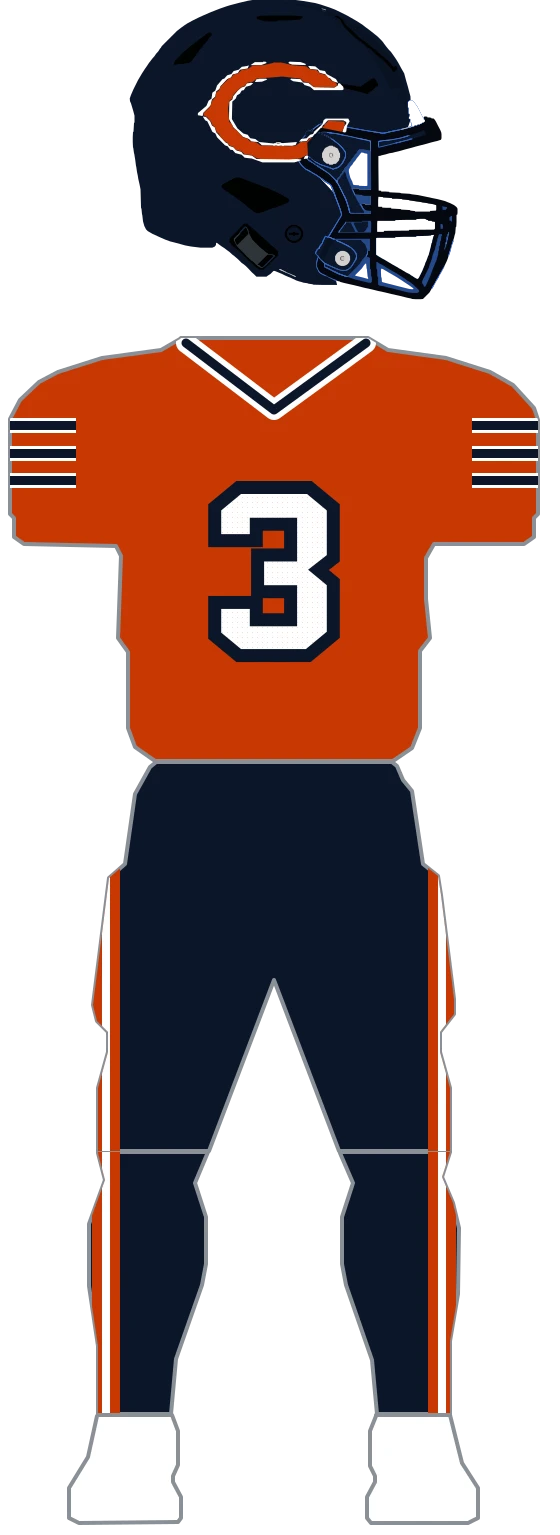
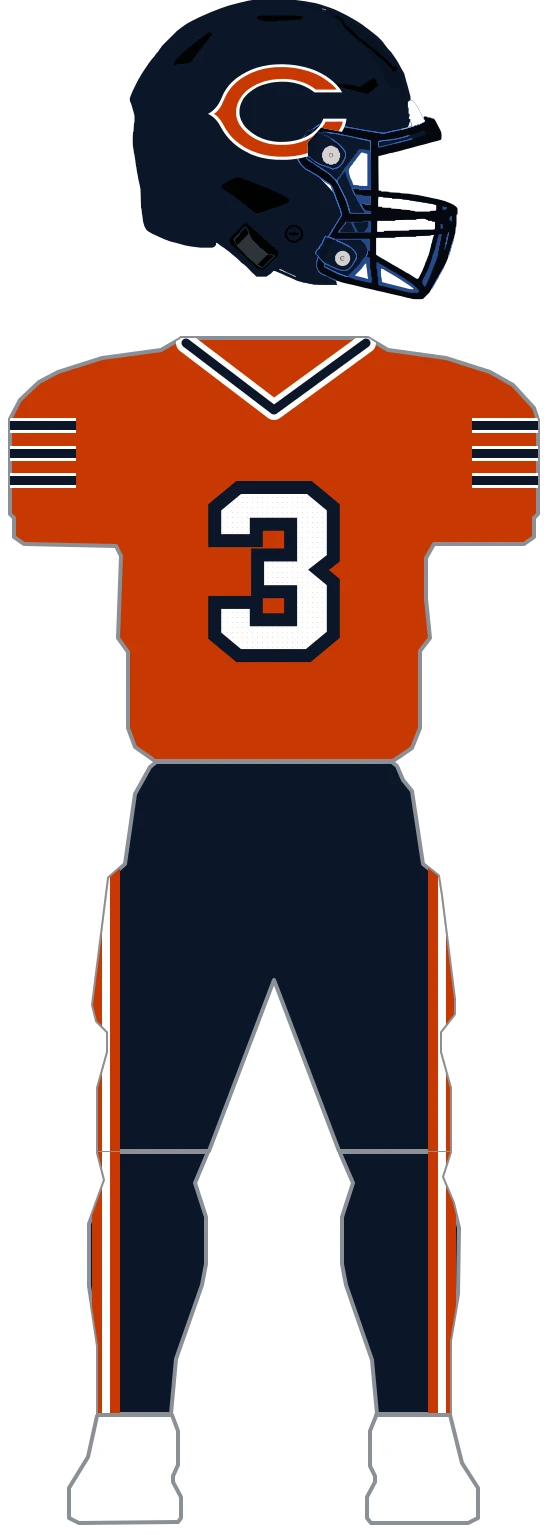
fix(uniforms): complete Bears accuracy pass (#800)

Changed region(s): [[0.3643, 0.0306, 0.6071, 0.1225], [0.6071, 0.0612, 0.6375, 0.0919]]

diff --git a/web/lib/uniforms/teams/bears.ts b/web/lib/uniforms/teams/bears.ts
@@ -10,9 +10,9 @@
 // bold single-stroke letterform survives that where the Seahawks' thin keyline did not. Keyline
 // paints first, the letter over it; both need fill-rule evenodd for their counters.
 export const BEARS_DECAL_KEYLINE_PATH =
-  'M405.4,191.3 L410.4,191.3 L413.0,193.9 L401.9,198.2 L380.7,198.2 L389.2,192.2 L405.4,192.2 Z M458.0,191.3 L481.0,192.2 L490.4,195.6 L491.2,198.2 L464.0,197.3 L457.2,194.8 L456.4,192.2 L458.0,192.2 Z M374.8,199.0 L377.3,199.0 L374.8,204.9 L359.4,207.5 L355.2,214.3 L345.0,216.8 L341.6,222.8 L333.9,226.2 L320.4,240.6 L318.6,245.8 L311.9,250.8 L310.1,261.1 L303.4,267.0 L300.8,278.9 L286.4,293.4 L284.6,300.1 L275.3,298.4 L275.3,294.2 L292.3,279.8 L296.6,269.6 L302.5,265.3 L304.2,253.4 L310.1,249.1 L313.6,238.9 L324.6,226.2 L328.0,225.3 L333.9,218.6 L342.4,216.0 L346.7,210.1 L356.9,207.5 L362.9,201.6 L374.8,199.8 Z M496.3,199.8 L509.9,200.7 L519.2,208.3 L529.5,210.1 L532.8,216.0 L551.5,226.2 L555.8,233.8 L544.8,230.4 L539.6,224.5 L535.4,223.7 L530.3,216.8 L518.4,213.4 L515.0,207.5 L499.7,205.8 L496.3,200.7 Z M396.9,225.3 L412.1,225.3 L413.9,227.1 L403.6,231.3 L389.2,232.1 L392.6,226.2 L396.9,226.2 Z M461.4,225.3 L480.1,226.2 L486.1,233.0 L496.3,233.8 L507.4,242.3 L548.1,243.2 L555.0,238.9 L555.8,234.7 L559.2,234.7 L566.0,241.5 L566.8,246.6 L564.3,248.3 L507.4,248.3 L499.7,241.5 L488.6,238.1 L484.4,233.0 L465.7,230.4 L459.8,227.1 L461.4,226.2 Z M380.7,233.0 L385.8,234.7 L380.7,238.9 L371.4,241.5 L367.1,248.3 L362.9,249.1 L359.4,255.1 L353.5,258.5 L350.9,265.3 L344.1,271.2 L343.3,306.1 L354.4,324.8 L366.2,335.0 L374.8,337.5 L379.9,344.4 L390.0,346.0 L397.7,352.0 L430.9,355.4 L473.4,352.0 L470.8,357.9 L464.0,359.6 L403.6,358.8 L396.0,352.0 L382.4,351.1 L377.3,346.0 L365.4,341.8 L345.9,322.2 L337.4,306.1 L338.2,271.2 L344.1,267.0 L345.9,260.2 L355.2,249.1 L362.0,243.2 L369.6,240.6 L373.1,234.7 L380.7,233.8 Z M285.5,301.0 L291.4,301.9 L299.9,310.4 L303.4,318.9 L309.3,323.1 L311.9,332.4 L330.6,352.9 L335.6,355.4 L337.4,359.6 L345.9,362.2 L352.6,369.0 L362.0,371.5 L366.2,376.6 L383.2,379.2 L392.6,386.0 L472.5,386.0 L481.9,386.9 L481.9,388.5 L468.2,392.8 L404.5,392.8 L383.2,385.1 L368.8,383.4 L362.9,377.5 L350.1,374.1 L345.0,368.1 L339.9,367.3 L334.8,360.5 L329.7,358.8 L313.6,342.6 L310.1,335.0 L304.2,331.6 L294.0,310.4 L289.8,308.6 L285.5,301.9 Z M530.3,305.2 L576.2,305.2 L578.8,310.4 L573.6,319.7 L572.0,330.8 L536.2,367.3 L528.6,369.0 L521.0,375.8 L511.6,377.5 L505.6,383.4 L486.9,386.0 L489.5,380.0 L507.4,377.5 L512.5,371.5 L524.3,368.1 L528.6,362.2 L537.1,359.6 L541.3,353.7 L546.5,352.0 L550.7,345.2 L557.5,340.9 L559.2,335.9 L564.3,332.4 L566.8,322.2 L572.0,315.4 L572.0,312.0 L566.0,308.6 L535.4,308.6 L525.2,318.9 L521.8,326.5 L514.1,334.1 L508.2,336.7 L504.8,341.8 L497.1,344.4 L492.9,350.3 L477.6,351.1 L481.9,346.0 L492.9,344.4 L499.7,337.5 L505.6,335.9 L508.2,330.8 L524.3,316.3 L526.9,307.8 L530.3,306.1 Z';
+  'M438.2,196.5 L446.0,196.5 L458.6,197.2 L467.4,198.1 L476.1,199.5 L490.2,202.5 L497.7,204.7 L504.0,206.8 L510.6,209.3 L514.0,210.8 L524.0,215.9 L531.4,220.3 L538.8,225.5 L546.5,231.7 L553.0,238.0 L557.0,242.7 L560.6,247.6 L563.1,251.7 L563.5,252.8 L508.5,252.8 L500.8,247.2 L496.7,244.7 L489.5,240.9 L483.0,238.1 L477.0,236.1 L467.7,233.7 L461.3,232.6 L454.8,231.8 L450.1,231.5 L438.3,231.5 L427.7,232.5 L420.6,233.6 L415.3,234.8 L404.9,237.7 L399.9,239.6 L393.6,242.4 L384.9,247.8 L378.0,252.9 L374.3,256.2 L370.9,259.8 L367.8,263.4 L365.4,267.0 L363.6,270.4 L361.8,274.3 L359.8,280.2 L358.9,284.7 L358.4,288.5 L358.6,296.6 L359.3,300.7 L360.4,304.6 L361.9,308.7 L365.9,316.1 L368.6,319.9 L371.4,323.3 L375.7,327.4 L380.2,331.2 L384.9,334.8 L392.8,339.8 L398.8,342.8 L403.9,345.0 L409.3,346.9 L415.4,348.7 L426.4,350.8 L432.5,351.4 L438.7,351.8 L451.1,351.6 L461.1,350.6 L468.2,349.3 L475.1,347.7 L480.4,346.1 L487.2,343.6 L492.7,341.1 L498.5,337.7 L503.5,334.3 L507.0,331.6 L510.4,328.7 L516.1,322.8 L519.5,318.4 L522.1,314.3 L523.8,311.0 L526.2,305.3 L572.4,305.3 L572.2,307.7 L571.3,312.5 L570.0,317.4 L568.4,321.7 L566.8,325.2 L564.3,329.8 L561.4,334.4 L557.4,339.5 L554.6,342.9 L550.0,347.6 L540.0,356.7 L533.8,361.6 L526.5,366.6 L519.6,370.6 L511.1,374.6 L500.4,378.9 L493.3,381.2 L482.6,383.9 L475.5,385.2 L462.3,386.9 L453.0,387.6 L432.0,387.5 L417.3,386.1 L409.7,384.8 L402.7,383.4 L392.6,380.6 L381.3,376.4 L368.7,369.9 L364.2,367.4 L356.4,362.3 L350.8,358.1 L346.0,353.9 L339.8,348.0 L334.4,341.9 L331.4,338.2 L328.3,333.9 L324.4,327.9 L317.9,316.4 L315.9,313.3 L312.7,309.0 L307.9,304.0 L305.9,302.3 L302.0,299.4 L298.8,297.5 L295.5,295.8 L301.4,292.1 L304.9,289.4 L306.9,287.7 L312.0,282.2 L315.2,278.0 L318.3,272.9 L321.0,267.6 L326.6,254.9 L329.0,250.6 L332.9,244.6 L337.2,238.9 L342.5,233.1 L348.8,227.4 L353.4,223.6 L363.4,217.1 L372.6,212.0 L382.3,207.4 L392.9,203.5 L405.3,200.3 L415.2,198.5 L422.4,197.5 L429.9,196.9 L438.1,196.6 Z';
 export const BEARS_DECAL_LETTER_PATH =
-  'M425.8,193.1 L442.8,193.1 L463.1,198.2 L492.0,200.7 L498.0,205.8 L513.3,208.3 L518.4,214.3 L530.3,217.7 L543.9,230.4 L551.5,233.0 L554.1,238.1 L549.8,242.3 L509.9,242.3 L504.8,240.6 L498.0,233.8 L486.9,231.3 L480.1,225.3 L444.4,221.1 L392.6,225.3 L385.8,231.3 L373.9,233.8 L367.9,240.6 L362.0,242.3 L350.9,252.6 L345.9,258.5 L343.3,266.1 L338.2,269.6 L335.6,284.9 L338.2,312.0 L343.3,316.3 L346.7,324.8 L351.8,327.4 L365.4,342.6 L374.8,345.2 L379.0,350.3 L392.6,352.9 L400.2,358.8 L459.8,360.5 L471.6,358.8 L481.0,352.0 L492.9,351.1 L498.9,344.4 L504.8,342.6 L514.1,335.0 L536.2,309.5 L568.5,311.2 L569.4,317.1 L565.1,329.0 L559.2,334.1 L556.6,340.9 L550.7,344.4 L546.5,351.1 L541.3,352.9 L537.1,358.8 L528.6,361.4 L521.0,369.0 L512.5,370.7 L506.5,376.6 L492.0,378.4 L480.1,385.1 L457.2,386.9 L401.1,386.0 L392.6,384.3 L383.2,378.4 L368.8,376.6 L362.0,370.7 L350.9,367.3 L345.9,361.4 L339.1,359.6 L334.8,353.7 L330.6,352.0 L319.5,340.9 L317.8,335.9 L312.7,332.4 L309.3,322.2 L303.4,317.1 L301.6,311.2 L294.0,302.7 L286.4,298.4 L287.2,293.4 L299.9,281.4 L303.4,269.6 L310.1,262.8 L311.9,252.6 L317.8,248.3 L320.4,241.5 L337.4,224.5 L341.6,223.7 L346.7,216.8 L355.2,215.2 L362.9,207.5 L375.6,205.8 L384.9,199.0 L406.2,198.2 L425.8,193.9 Z';
+  'M440.2,202.1 L450.8,202.3 L459.5,202.9 L467.5,203.9 L475.1,205.1 L482.9,206.8 L495.1,210.0 L508.6,214.9 L514.7,217.5 L521.6,221.4 L528.4,225.7 L535.9,230.9 L542.0,235.8 L545.4,238.8 L550.7,244.3 L552.5,246.5 L552.8,247.2 L511.1,247.2 L507.1,244.1 L500.7,239.9 L496.6,237.6 L488.1,233.7 L483.2,232.0 L477.4,230.2 L468.5,228.1 L462.0,227.0 L455.4,226.2 L450.5,225.9 L439.5,225.9 L428.7,226.8 L421.7,227.8 L414.5,229.3 L408.2,230.9 L397.9,234.5 L392.8,236.7 L384.1,241.4 L376.2,246.7 L371.3,250.7 L366.4,255.7 L362.3,261.1 L358.3,267.5 L355.8,272.6 L354.4,276.0 L353.2,280.1 L352.1,285.2 L351.7,289.2 L351.7,296.1 L351.8,298.1 L352.5,302.1 L353.3,305.3 L355.1,310.4 L356.5,313.5 L358.6,317.3 L362.2,322.5 L364.7,325.7 L369.9,331.1 L375.8,336.3 L379.6,339.2 L384.5,342.5 L388.6,344.9 L396.1,348.5 L401.6,350.7 L411.9,354.1 L418.3,355.6 L425.6,356.7 L432.1,357.4 L439.3,357.8 L451.4,357.6 L458.4,357.0 L464.9,356.2 L471.3,354.9 L478.3,353.0 L485.5,350.6 L491.1,348.3 L496.7,345.6 L500.9,343.2 L505.3,340.3 L510.7,336.1 L514.9,332.4 L518.1,329.0 L520.2,326.8 L525.4,320.2 L528.4,315.6 L530.5,311.4 L564.9,311.2 L564.4,314.0 L563.3,317.6 L562.1,320.6 L559.8,325.2 L557.8,328.5 L554.9,332.5 L550.5,338.0 L548.2,340.4 L543.6,345.1 L537.9,350.3 L534.9,352.8 L528.5,357.6 L523.9,360.6 L514.0,366.2 L507.8,369.2 L502.4,371.5 L494.6,374.2 L488.3,376.1 L479.2,378.2 L472.1,379.4 L465.6,380.3 L456.8,381.1 L450.9,381.4 L438.6,381.4 L429.8,380.9 L424.0,380.3 L416.2,379.2 L409.4,378.0 L402.1,376.3 L394.8,374.1 L384.0,370.1 L378.5,367.8 L369.3,363.0 L357.2,354.8 L349.1,348.0 L344.5,343.6 L341.4,340.2 L337.6,335.5 L331.9,327.5 L324.2,314.1 L321.1,309.1 L318.6,305.8 L316.2,303.0 L312.9,299.6 L310.6,297.8 L307.9,296.3 L307.5,295.8 L312.3,292.0 L314.9,289.3 L316.7,287.3 L320.1,282.5 L322.1,279.2 L328.9,264.3 L333.1,255.9 L335.7,251.7 L340.0,245.5 L343.8,240.9 L349.5,235.1 L354.7,230.5 L360.5,226.1 L368.5,221.0 L372.3,218.9 L380.2,214.9 L385.1,212.6 L396.6,208.5 L403.2,206.7 L410.0,205.1 L418.4,203.7 L425.8,202.8 L433.5,202.3 L440.1,202.2 Z';
 
 // The sleeve stripe set: three bands at a 9px pitch in reference space, each an edging color with
 // a contrasting core inset 3 units top and bottom. Measured at x=23-40 on a figure centered at
